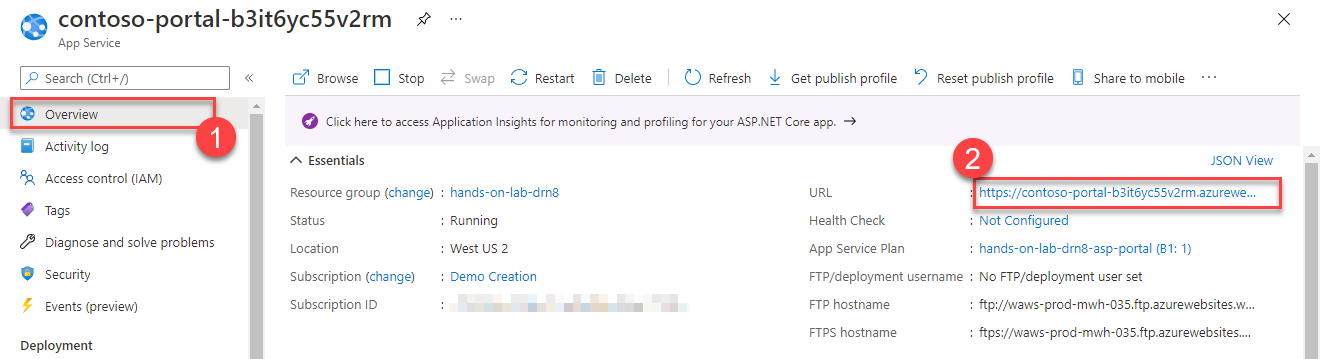
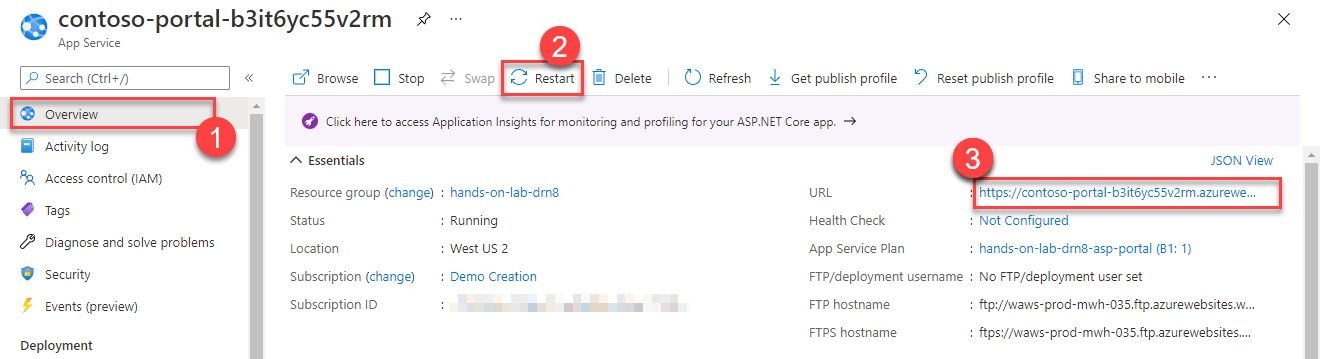
Making sure web app is restarted.

Changed region(s): [[0.3727, 0.0613, 0.4659, 0.3064], [0.7144, 0.429, 0.7765, 0.5209]]

diff --git a/Hands-on lab/HOL step-by step - AI-led business process automation.md b/Hands-on lab/HOL step-by step - AI-led business process automation.md
@@ -784,7 +784,7 @@ In this task, we will connect our Azure Cognitive Search indexes with the hospit
 
     ![New application settings are highlighted. Save button is pointed.](media/app-service-settings-save-step.png "Save new application settings")
 
-9. Go back to the **Overview (1)** page and select the **URL (2)** to navigate to the hospital portal. You may need to restart the app first.
+9. Go back to the **Overview (1)** page. Restart the web app **(2)** and select the **URL (3)** to navigate to the hospital portal. 
 
     ![Overview page for the App Service is shown. URL for the App Service is highlighted.](media/app-service-navigate-to-portal.png "Hospital Portal URL")
 
